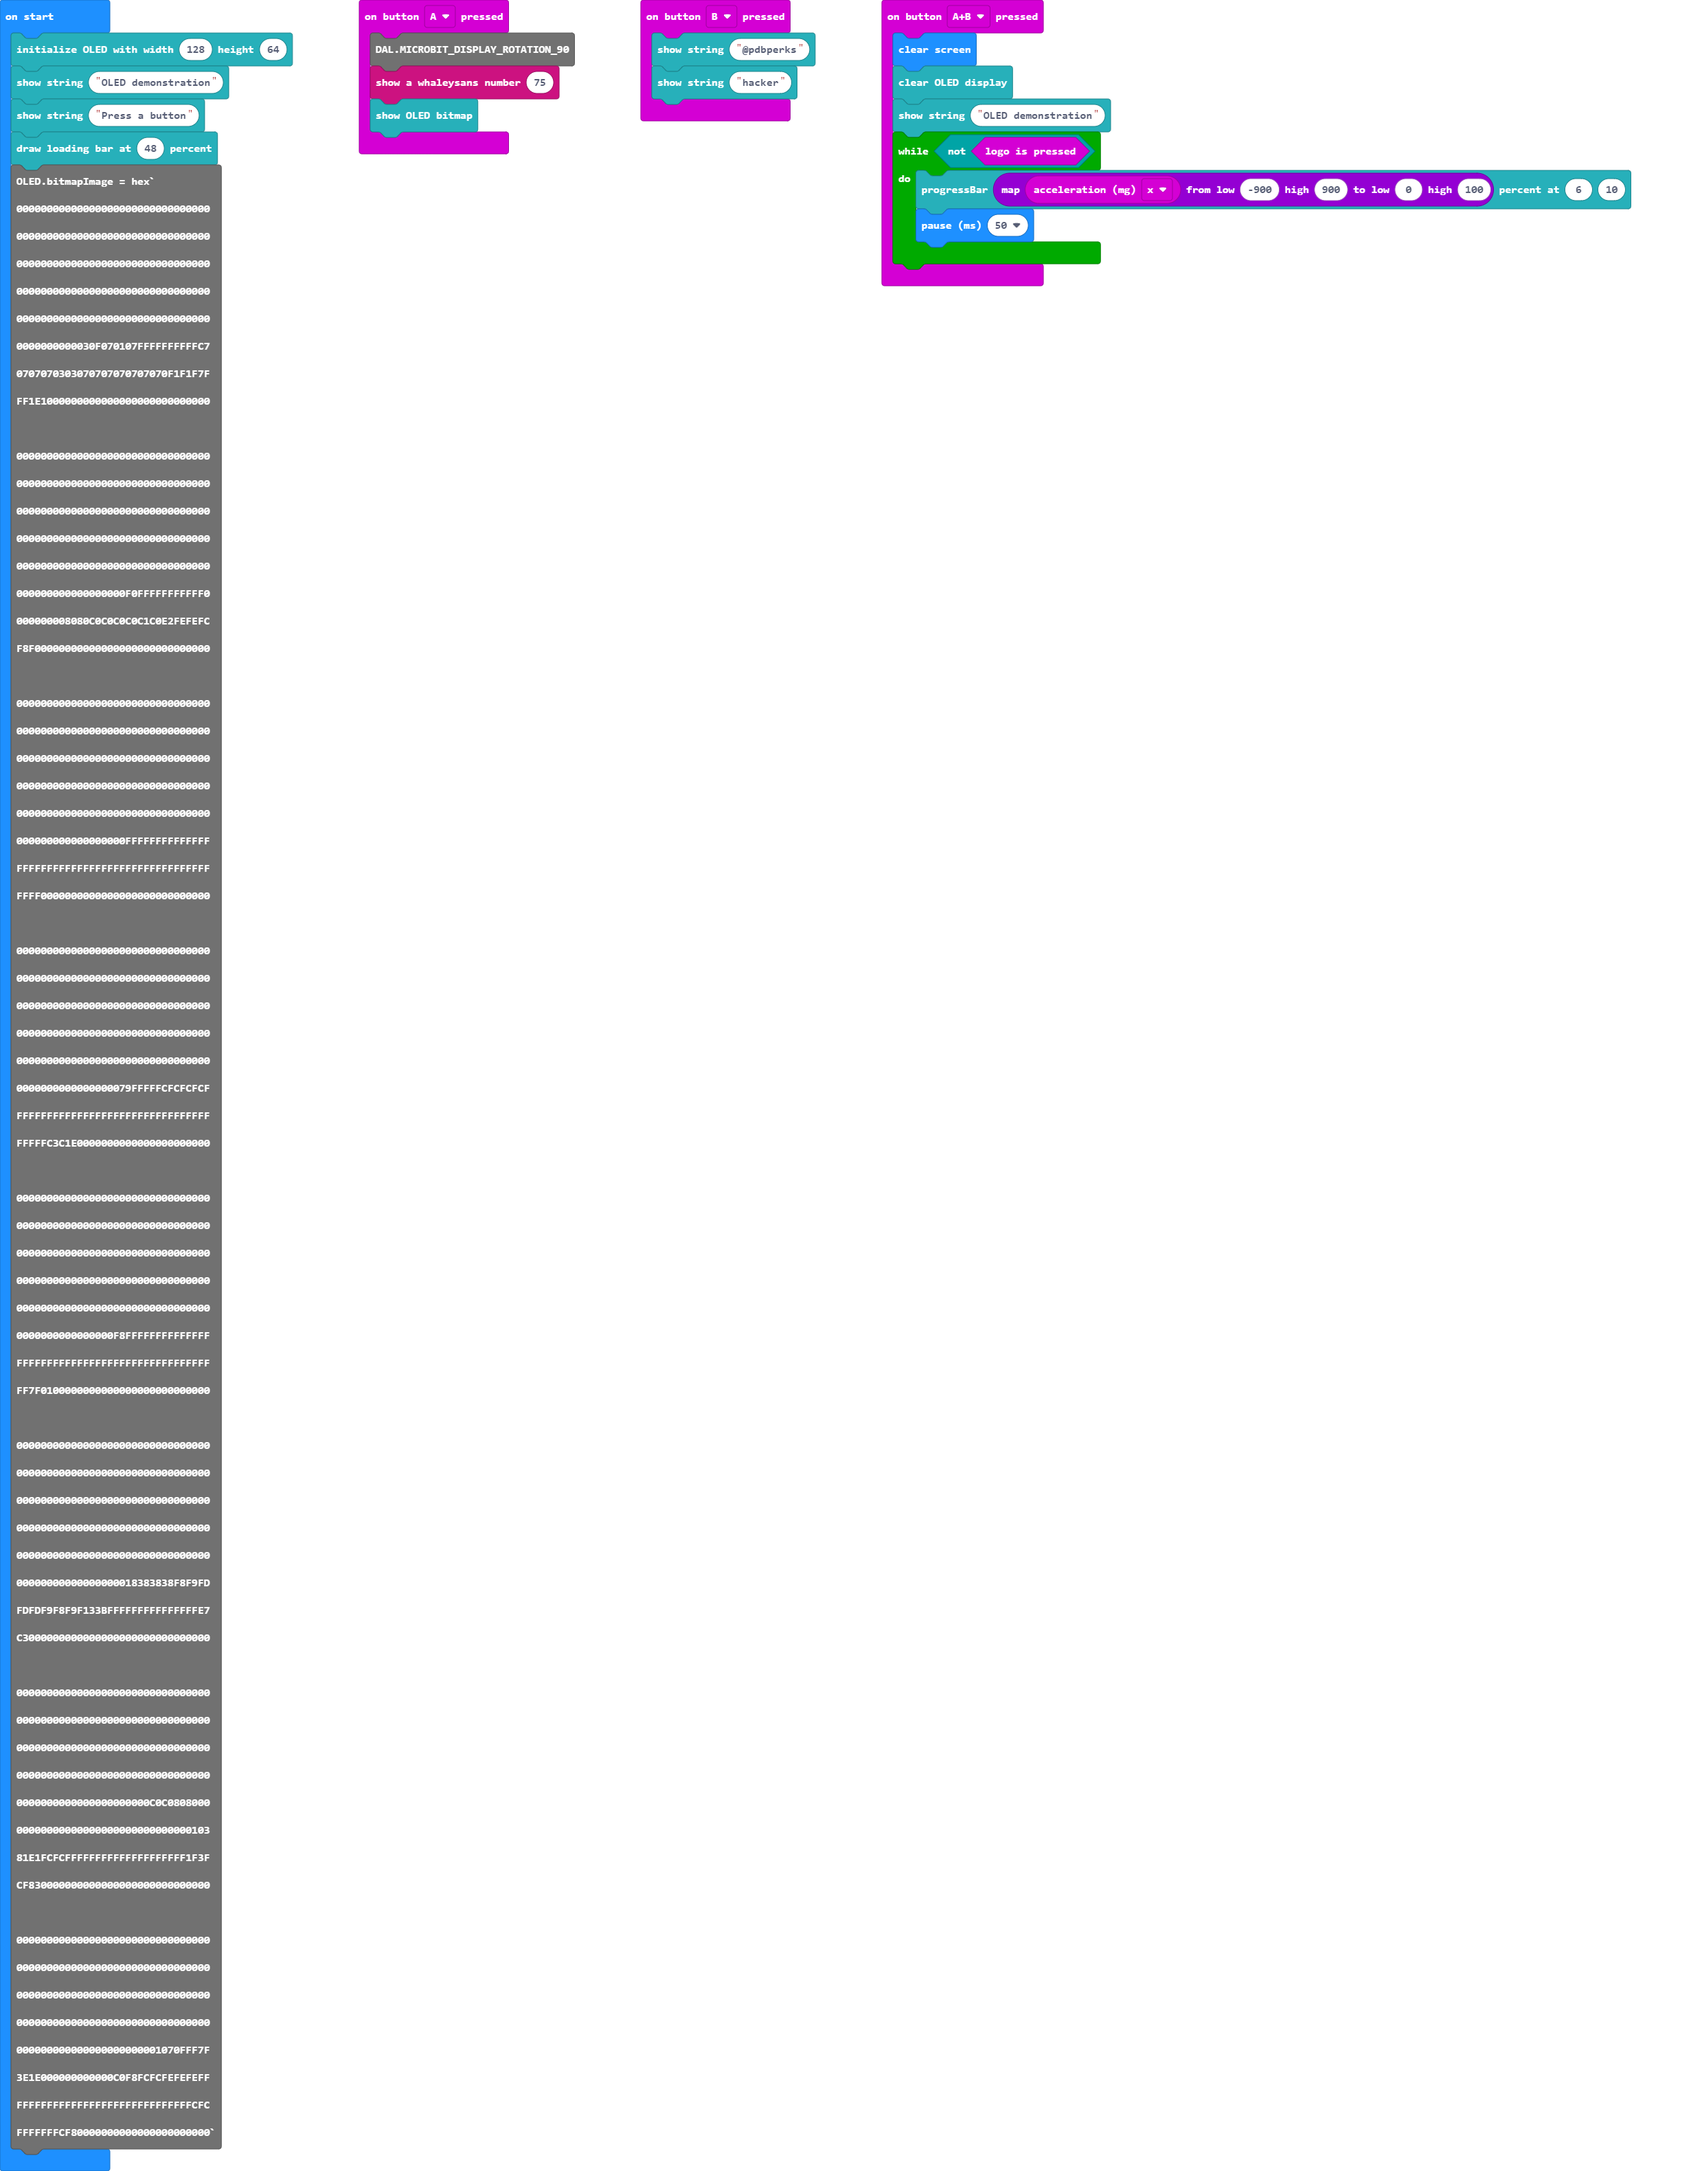
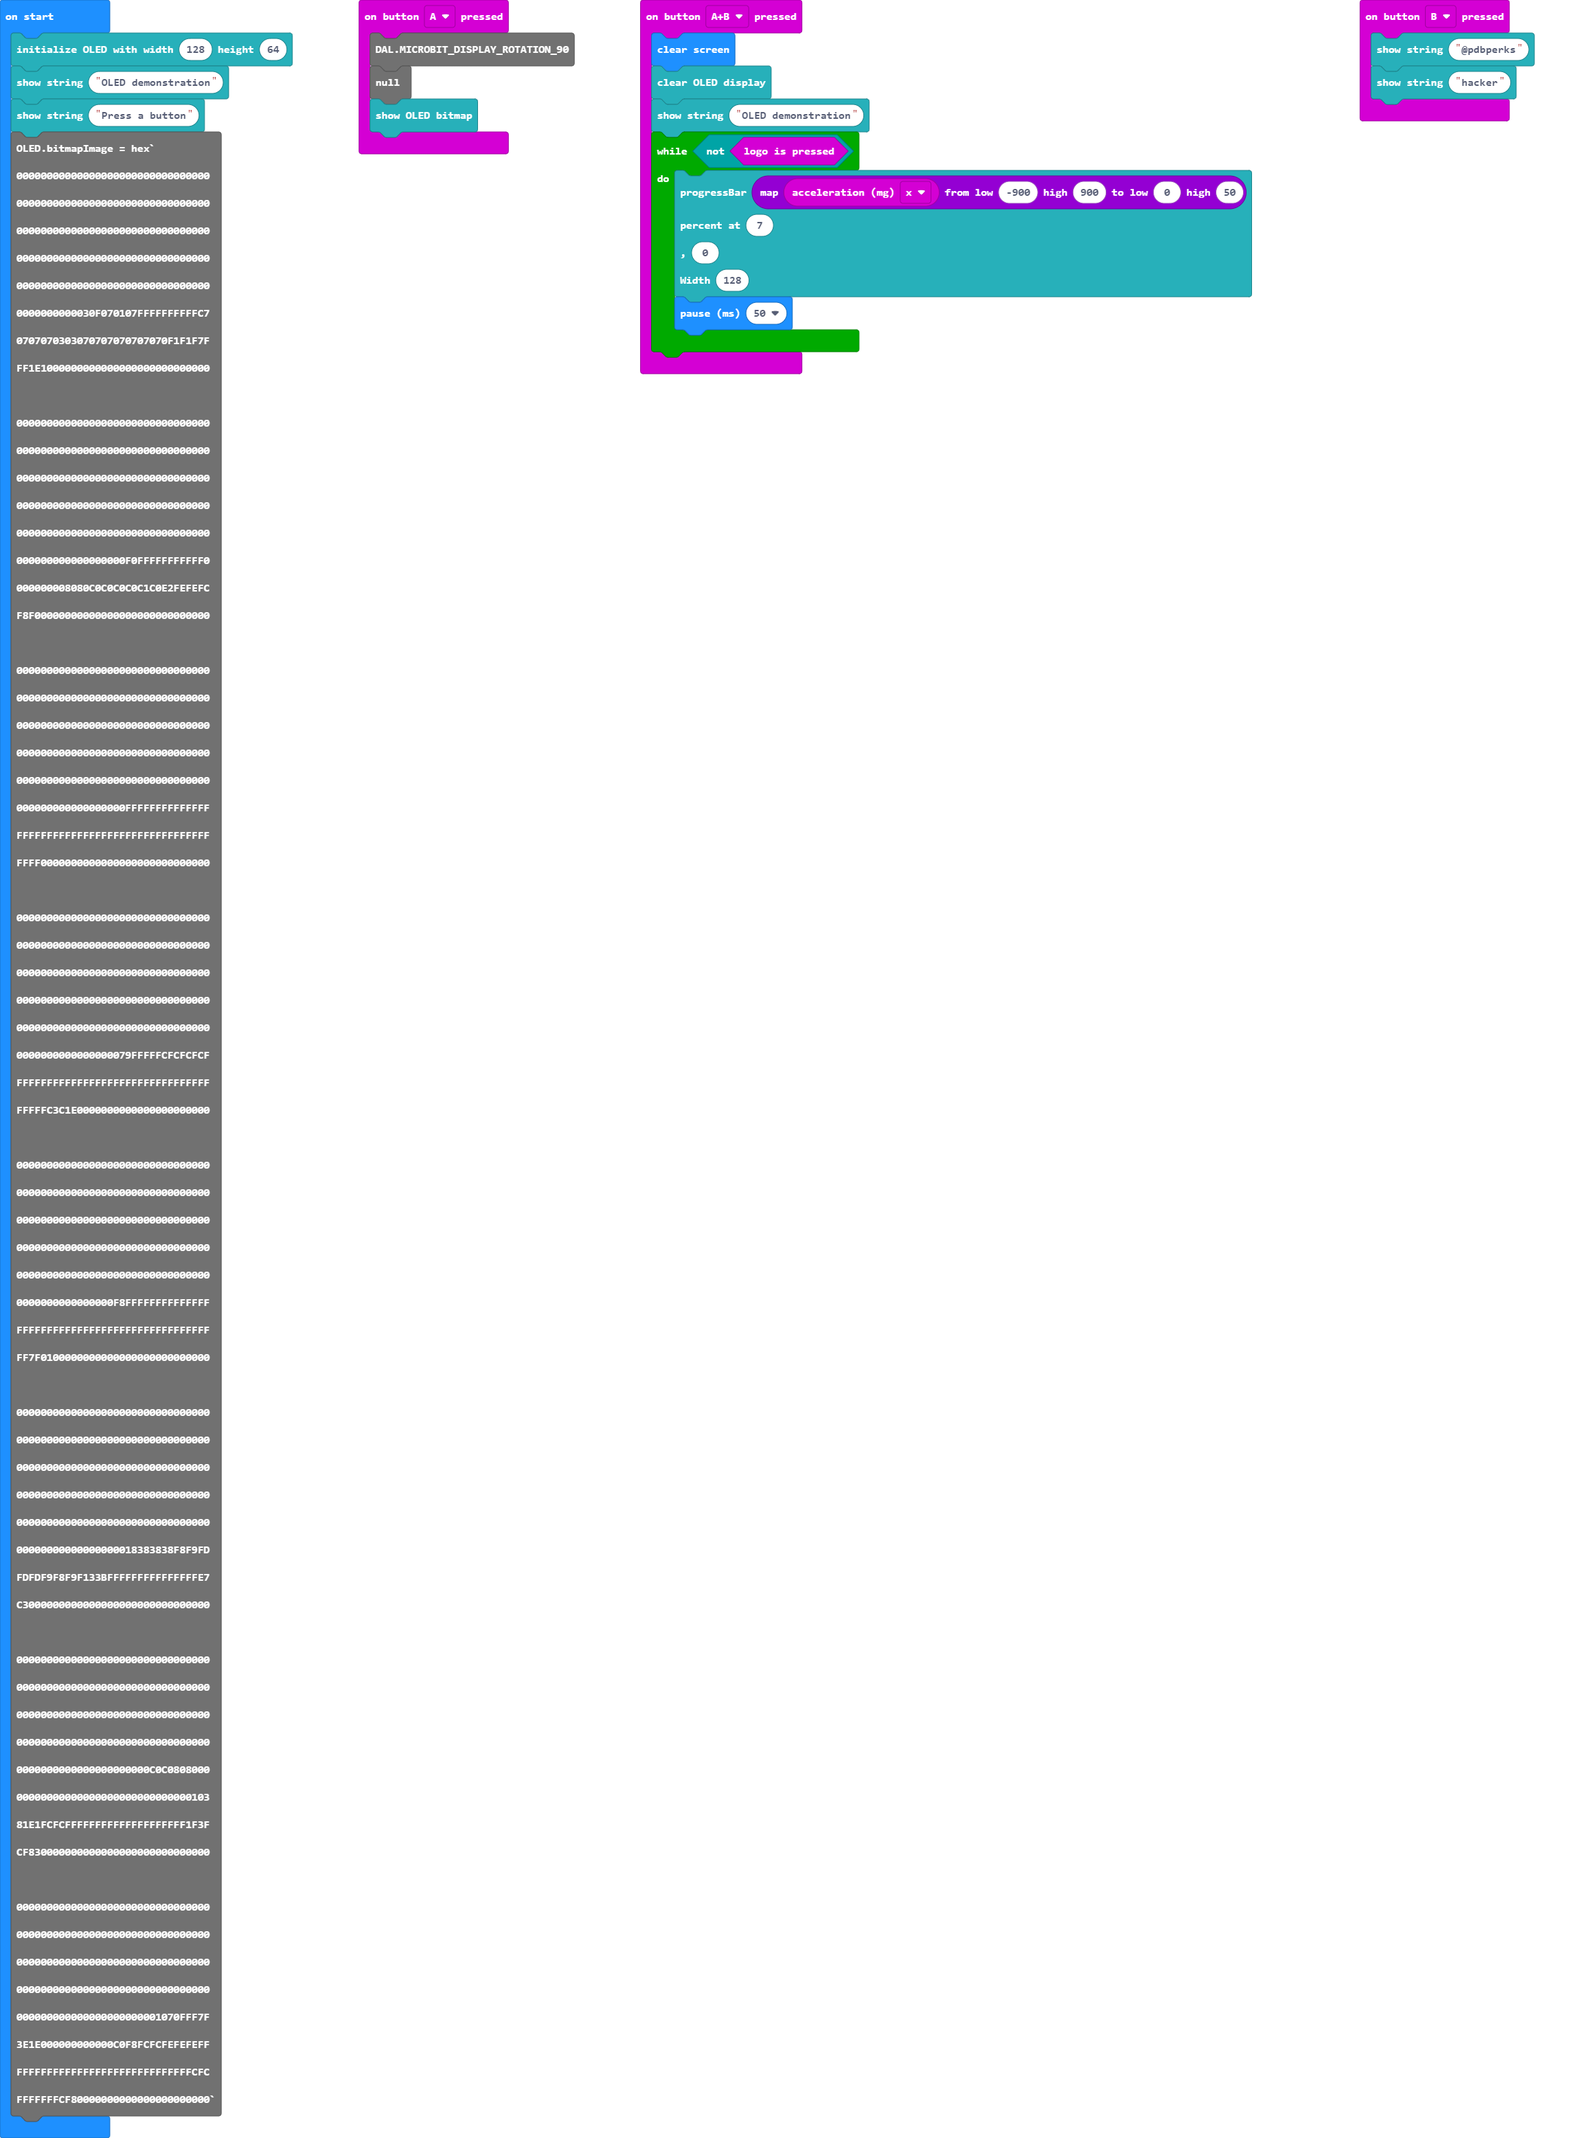
Update pxt.json, main.blocks, main.ts, custom.ts

Changed region(s): [[0.0, 0.0, 0.9939, 1.0]]

diff --git a/custom.ts b/custom.ts
@@ -43,6 +43,7 @@ namespace OLED {
     //let font: Array<Array<number>>
     let loadStarted: boolean;
     let loadPercent: number;
+
     function command(cmd: number) {
         let buf = pins.createBuffer(2)
         buf[0] = 0x00
@@ -70,12 +71,8 @@ namespace OLED {
     export function clear() {
         loadStarted = false
         loadPercent = 0
-        command(SSD1306_SETCOLUMNADRESS)
-        command(0x00)
-        command(displayWidth - 1)
-        command(SSD1306_SETPAGEADRESS)
-        command(0x00)
-        command(displayHeight - 1)
+        setColumnAddress(0x00, displayWidth - 1)
+        setPageAddress(0x00, displayHeight - 1)
         let data = pins.createBuffer(17);
         data[0] = 0x40; // Data Mode
         for (let i = 1; i < 17; i++) {
@@ -102,9 +99,6 @@ namespace OLED {
         //let data = pins.createBuffer(2);
         let count = (displayWidth) * (displayHeight);
 
-
-
-
 let data = pins.createBuffer(2);
         for (let i = 0; i < count; i ++) {
             data[0] = 0x40; // Data Mode
@@ -114,78 +108,6 @@ let data = pins.createBuffer(2);
         charX = xOffset
         charY = yOffset
     }
-    function drawLoadingFrame() {
-        command(SSD1306_SETCOLUMNADRESS)
-        command(0x00)
-        command(displayWidth - 1)
-        command(SSD1306_SETPAGEADRESS)
-        command(0x00)
-        command(displayHeight - 1)
-        let col = 0
-        let page = 0
-        let data = pins.createBuffer(17);
-        data[0] = 0x40; // Data Mode
-        let i = 1
-        for (let page = 0; page < displayHeight; page++) {
-            for (let col = 0; col < displayWidth; col++) {
-                if (page === 3 && col > 12 && col < displayWidth - 12) {
-                    data[i] = 0x60
-                } else if (page === 5 && col > 12 && col < displayWidth - 12) {
-                    data[i] = 0x06
-                } else if (page === 4 && (col === 12 || col === 13 || col === displayWidth - 12 || col === displayWidth - 13)) {
-                    data[i] = 0xFF
-                } else {
-                    data[i] = 0x00
-                }
-                if (i === 16) {
-                    pins.i2cWriteBuffer(chipAdress, data, false)
-                    i = 1
-                } else {
-                    i++
-                }
-
-            }
-        }
-        charX = 30
-        charY = 2
-        writeString("Loading:")
-    }
-    function drawLoadingBar(percent: number) {
-        charX = 78
-        charY = 2
-        let num = Math.floor(percent)
-        writeNum(num)
-        writeString("%")
-        let width = displayWidth - 14 - 13
-        let lastStart = width * (loadPercent / displayWidth)
-        command(SSD1306_SETCOLUMNADRESS)
-        command(14 + lastStart)
-        command(displayWidth - 13)
-        command(SSD1306_SETPAGEADRESS)
-        command(4)
-        command(5)
-        let data = pins.createBuffer(2);
-        data[0] = 0x40; // Data Mode
-        data[1] = 0x7E
-        for (let i = lastStart; i < width * (Math.floor(percent) / 100); i++) {
-            pins.i2cWriteBuffer(chipAdress, data, false)
-        }
-        loadPercent = num
-    }
-
-    //% block="draw loading bar at $percent percent"
-    //% percent.min=0 percent.max=100
-    //% weight=2
-    export function drawLoading(percent: number) {
-        if (loadStarted) {
-            drawLoadingBar(percent)
-        } else {
-            drawLoadingFrame()
-            drawLoadingBar(percent)
-            loadStarted = true
-        }
-    }
-
 
     //% block="show (without newline) string $str"
     //% weight=6
@@ -223,12 +145,14 @@ let data = pins.createBuffer(2);
         charX = xOffset
     }
     function drawChar(x: number, y: number, c: string) {
-        command(SSD1306_SETCOLUMNADRESS)
-        command(x)
-        command(x + 5)
-        command(SSD1306_SETPAGEADRESS)
-        command(y)
-        command(y + 1)
+        setColumnAddress(x, x + 5)
+        setPageAddress(y, y + 1)
+       // command(SSD1306_SETCOLUMNADRESS)
+       // command(x)
+       // command(x + 5)
+       // command(SSD1306_SETPAGEADRESS)
+       // command(y)
+        //command(y + 1)
         let line = pins.createBuffer(2)
         line[0] = 0x40
         for (let i = 0; i < 6; i++) {
@@ -278,12 +202,14 @@ let data = pins.createBuffer(2);
                     }
                 }
                 if (line[1] !== 0x00) {
-                    command(SSD1306_SETCOLUMNADRESS)
-                    command(x)
-                    command(x + 1)
-                    command(SSD1306_SETPAGEADRESS)
-                    command(page)
-                    command(page + 1)
+                    setColumnAddress(x, x+1)
+                    setPageAddress(page, page+1)
+                    //command(SSD1306_SETCOLUMNADRESS)
+                    //command(x)
+                    //command(x + 1)
+                    //command(SSD1306_SETPAGEADRESS)
+                    //command(page)
+                    //command(page + 1)
                     //line[1] |= pins.i2cReadBuffer(chipAdress, 2)[1]
                     pins.i2cWriteBuffer(chipAdress, line, false)
                 }
@@ -337,22 +263,23 @@ let data = pins.createBuffer(2);
     const PRG_RIGHT_EDGE = 0xFF
     const PRG_ACTIVE    =  0xBD
     const PRG_NOT_ACTIVE = 0x81
-    //% block="progressBar $percent percent at $page  $col"
+    //% block="progressBar $percent percent at $page,$col Width $wide"
     //% percent.min=0 percent.max=100
     //% page.min=0 page.max=7
     //% col.min=0 col.max=50
+    //% wide.min=10 wide.max=128
     //% weight=3
-    export function progressBar(percent: number, page = 0, col = 0){
+    export function progressBar(percent: number, page = 0, col = 0, wide = 50){
     let i: number, scale_value: number;
     setPageAddress(page,page);
     setColumnAddress(col, displayWidth - 1);
-    scale_value = percent % PRG_MAX_SCALE;
+    scale_value = percent % wide;
 sendData(PRG_LEFT_EDGE);
 for (i = 0; i < scale_value; i++ ) {
 sendData(PRG_NOT_ACTIVE);
     }
 sendData(PRG_ACTIVE);    
- for (i = scale_value; i < PRG_MAX_SCALE; i++ ) {
+ for (i = scale_value; i < wide; i++ ) {
 sendData(PRG_NOT_ACTIVE);
     }  
     sendData(PRG_RIGHT_EDGE);     

diff --git a/main.ts b/main.ts
@@ -1,14 +1,19 @@
 input.onButtonPressed(Button.A, function () {
     DAL.MICROBIT_DISPLAY_ROTATION_90
 null
-    OLED.bitmap()
+OLED.bitmap()
 })
 input.onButtonPressed(Button.AB, function () {
     basic.clearScreen()
     OLED.clear()
     OLED.writeStringNewLine("OLED demonstration")
     while (!(input.logoIsPressed())) {
-        OLED.progressBar(Math.map(input.acceleration(Dimension.X), -900, 900, 0, 100), 6, 10)
+        OLED.progressBar(
+        Math.map(input.acceleration(Dimension.X), -900, 900, 0, 120),
+        7,
+        0,
+        120
+        )
         basic.pause(50)
     }
 })
@@ -19,7 +24,6 @@ input.onButtonPressed(Button.B, function () {
 OLED.init(128, 64)
 OLED.writeStringNewLine("OLED demonstration")
 OLED.writeStringNewLine("Press a button")
-OLED.drawLoading(48)
 OLED.bitmapImage = hex`
 00000000000000000000000000000000
 00000000000000000000000000000000
